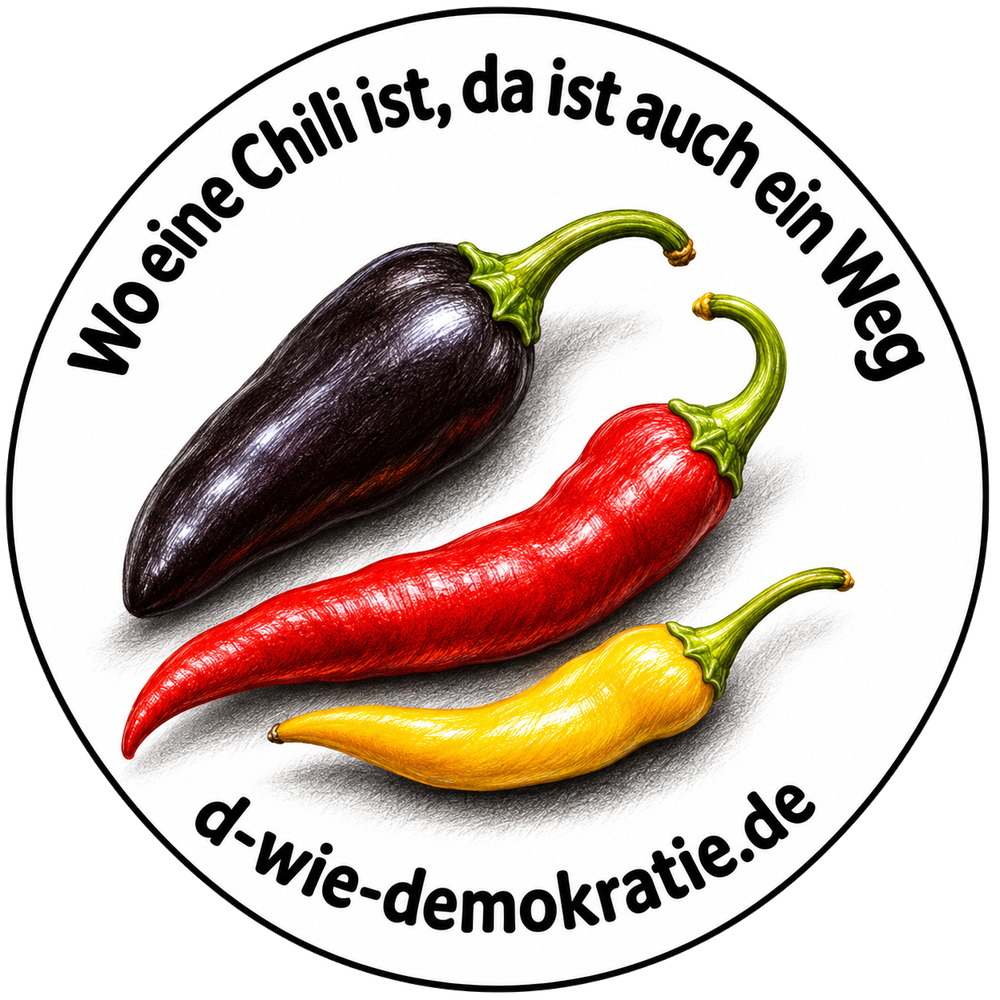
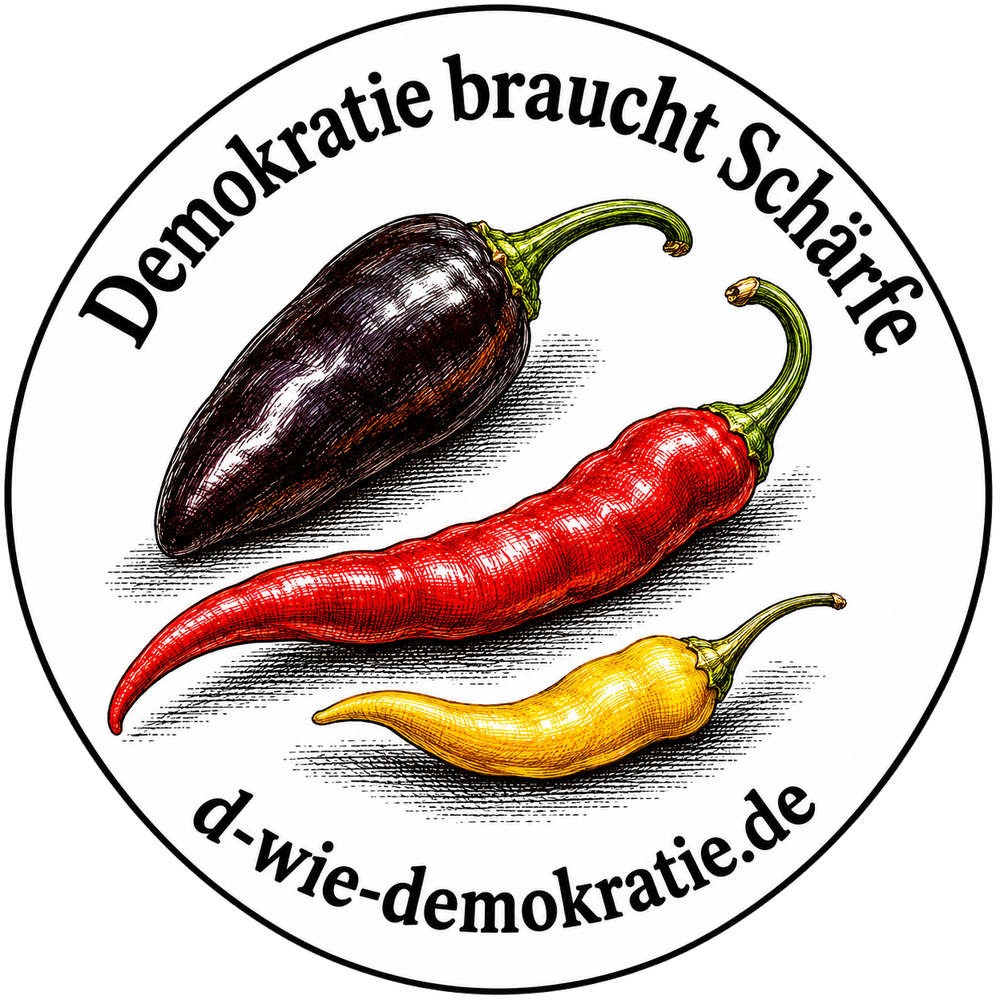
Motiv 6 jetzt „Demokratie braucht Schärfe“ (neues Bild)

diff --git a/src/data/motive.ts b/src/data/motive.ts
@@ -81,8 +81,8 @@ const liste = [
 	},
 	{
 		nr: 6,
-		name: 'Wo eine Chili ist, da ist auch ein Weg',
-		alt: 'Drei gezeichnete Chilischoten in Schwarz, Rot und Gelb liegen schräg und gestaffelt nebeneinander. Oben im Bogen „Wo eine Chili ist, da ist auch ein Weg“, unten d-wie-demokratie.de, in einem runden Abzeichen.',
+		name: 'Demokratie braucht Schärfe',
+		alt: 'Drei Chilischoten in Schwarz, Rot und Gelb liegen schräg und gestaffelt nebeneinander, gezeichnet im Stil eines alten Kupferstichs. Oben im Bogen „Demokratie braucht Schärfe“, unten d-wie-demokratie.de, in einem runden Abzeichen.',
 		bald: true,
 		vorschau: 'motiv-6-vorschau.png',
 	},

diff --git a/CLAUDE.md b/CLAUDE.md
@@ -24,7 +24,7 @@ Push to `main` triggers GitHub Actions (`.github/workflows/deploy.yml`), which b
 
 - `src/layouts/Layout.astro`: shared `<head>` (meta, Open Graph, Umami script), sticky header with black-red-gold stripe and tab navigation, footer links. Global CSS variables live here. Also holds the tab order (`reiter`) used for swiping between tabs on mobile and for the slide animation (native cross-document View Transitions, only on touch devices); a new tab must be added there as well as in the nav. The ☰ menu at the right of the header lists all pages (array `menue`, plus Impressum/Datenschutz in `menueKlein`); a new page without its own tab only goes there, and such a page gets its own red-underlined tab for the current page (`aktuell`): on phones it replaces „Motive“ (short name `handy`, e.g. „Einreichen“, „Geschichte“), from 700 px it sits after „Motive“ (name `kurz`, e.g. „Flaggengeschichte“). Tabs since 2026-11-18: logo (start), Fragen, Verbündete, Motive; „Mitmachen“ and „Unterstützen“ are only in the ☰ menu. These tabs are not part of `reiter`/swiping. Pages not in the menu (Statistik) mark the ☰ with the red bar instead. Header widths are tuned so everything fits from 320 px; re-measure after changing tab names.
 - `src/pages/index.astro`: landing page: photo slider at the top (crossfade every few seconds, dots below stop it; `bilder` array at the top, files in `src/assets/slider/`, new ones 1800 × 1200 px JPEG named `motiv-<nr>-<was>.jpg`; each photo links to `/motive/#motiv-<nr>` of the motif it shows; the photos are AI-generated, hence the visible "KI-generiert" note (Art. 50 AI Act, must stay visible, not behind a click) for entries with `foto: true`), then visible h1 „Wir zeigen Flagge“, the values with links to Art. 1–5 GG, a box styled as the flag (black-red-gold stripes, with the 1990 Reichstag photo as a grey watermark; its credit sits below the box) that rotates quotes (array `zitate` at the top: Klopp, Steinmeier …; each with an `id` such as `zitat-aigner`, so `/#zitat-aigner` shows that quote and stops the rotation; each with a button to the video or speech, only linked, not embedded; Klopp's video also linked in FAQ `#farben`), then a preview of all motifs (thumbnails of the first version, each linking to `/motive/#motiv-<nr>`; later only the newest). Old anchors `/#motiv-<nr>`, `/#motive`, `/#herunterladen` and `/#shop` are forwarded to `/motive/` by an inline script.
-- `src/pages/motive.astro`: tab „Motive“ (since 2026-11-18): intro (we want many motifs, from children, artists, designers …; link to „Motiv einreichen“), then two accordion questions (`<details>`, `#herunterladen` and `#shop` open them; download terms: print and share freely, don't alter; shop: Spreadshop by Spreadshirt (Leipzig) https://d-wie-demokratie.myspreadshop.de/, set up as Non-Profit-Shop (margin 0, customer pays Spreadshirt's base price), only organic-cotton textiles (mostly Stanley/Stella); Spreadshirt is the seller, 30-day return/exchange; linked from the question (button) and per motif or per version (`shop` in `liste` or in a `varianten` entry, `/all?mainDesignId=<id>`; switch `shopAktiv`), not embedded, so the site stays free of third-party cookies; biotshirt (YTWOO, Düsseldorf) was linked 2026-11-12 to 2026-11-18 and dropped because it accepts no returns (texts in commit 7918eb7); wording rule: never call products „GOTS-zertifiziert“, only say what the product pages state, e.g. „aus Bio-Baumwolle“) then the numbered motifs one under another (list `liste` in `src/data/motive.ts`, shared with the landing-page preview, each linkable via `/motive/#motiv-<nr>`), each with links to PNG, PDF and its shop search. Per motif: PNG `src/assets/motive/d-wie-demokratie-motiv-<nr>.png` (4000 px, transparent; thumbnail and download) and PDF `public/download/d-wie-demokratie-motiv-<nr>.pdf` (CMYK); a motif only shows once its PNG exists, a missing PDF or shop link just drops that link. Klaus keeps all motif files (PDF and PNG, same name) in `motive/` (gitignored working folder, a mirror of the published files) and exports there from Affinity; when he says so, Claude compares it with `src/assets/motive/` and `public/download/`, checks only new or changed files (size, transparency, sRGB, PDF/X-4, FOGRA39, exact CMYK values, no layers, no images) and copies them over. A motif with `bald: true` and `vorschau` (preview file in `src/assets/motive/bald/`) is shown with a gold „Kommt bald“ badge instead of download/shop links and is left out of the landing-page preview (since 2026-11-20: Motiv 3 „Keine Angst, Hasen!“, 4 „Alles wird Hut“, 5 „Entchen gut, alles gut“, 6 „Wo eine Chili ist, da ist auch ein Weg“, 7 „Dackel lieben Demokratie“, 8 „Oh Ei, oh Ei!“; preview = Klaus's AI draft with the white outside made transparent; when the print files exist, delete `bald`/`vorschau`). A motif can have several versions (`varianten` in `liste`, each with an `endung`; `versteckt: true` hides a version while its files stay, used since 2026-11-18 for both `-farbig` versions such as `-qr-weiss` or `-dunkel`, a button name and a short text): files `d-wie-demokratie-motiv-<nr><endung>.png` (in `src/assets/motive/`) and `.pdf` (in `public/download/`), same name, only the extension differs; buttons switch between them (without JS all are listed), each version is previewed on the fabric it is meant for: light heather grey by default, `-farbig` („Für mittlere Untergründe“) mid blue, `-dunkel` („Für dunkle Untergründe“, with white outline) anthracite (map `stoff`), or an explicit `stoff` per version (Motiv 1 „Für alle Untergründe“, white oval: mid blue-grey). PDF links carry a content hash (`?v=`) so a replaced PDF is never served from browser cache. `public/download/d-wie-demokratie-oval.png/.pdf` are kept for old links.
+- `src/pages/motive.astro`: tab „Motive“ (since 2026-11-18): intro (we want many motifs, from children, artists, designers …; link to „Motiv einreichen“), then two accordion questions (`<details>`, `#herunterladen` and `#shop` open them; download terms: print and share freely, don't alter; shop: Spreadshop by Spreadshirt (Leipzig) https://d-wie-demokratie.myspreadshop.de/, set up as Non-Profit-Shop (margin 0, customer pays Spreadshirt's base price), only organic-cotton textiles (mostly Stanley/Stella); Spreadshirt is the seller, 30-day return/exchange; linked from the question (button) and per motif or per version (`shop` in `liste` or in a `varianten` entry, `/all?mainDesignId=<id>`; switch `shopAktiv`), not embedded, so the site stays free of third-party cookies; biotshirt (YTWOO, Düsseldorf) was linked 2026-11-12 to 2026-11-18 and dropped because it accepts no returns (texts in commit 7918eb7); wording rule: never call products „GOTS-zertifiziert“, only say what the product pages state, e.g. „aus Bio-Baumwolle“) then the numbered motifs one under another (list `liste` in `src/data/motive.ts`, shared with the landing-page preview, each linkable via `/motive/#motiv-<nr>`), each with links to PNG, PDF and its shop search. Per motif: PNG `src/assets/motive/d-wie-demokratie-motiv-<nr>.png` (4000 px, transparent; thumbnail and download) and PDF `public/download/d-wie-demokratie-motiv-<nr>.pdf` (CMYK); a motif only shows once its PNG exists, a missing PDF or shop link just drops that link. Klaus keeps all motif files (PDF and PNG, same name) in `motive/` (gitignored working folder, a mirror of the published files) and exports there from Affinity; when he says so, Claude compares it with `src/assets/motive/` and `public/download/`, checks only new or changed files (size, transparency, sRGB, PDF/X-4, FOGRA39, exact CMYK values, no layers, no images) and copies them over. A motif with `bald: true` and `vorschau` (preview file in `src/assets/motive/bald/`) is shown with a gold „Kommt bald“ badge instead of download/shop links and is left out of the landing-page preview (since 2026-11-20: Motiv 3 „Keine Angst, Hasen!“, 4 „Alles wird Hut“, 5 „Entchen gut, alles gut“, 6 „Demokratie braucht Schärfe“, 7 „Dackel lieben Demokratie“, 8 „Oh Ei, oh Ei!“; preview = Klaus's AI draft with the white outside made transparent; when the print files exist, delete `bald`/`vorschau`). A motif can have several versions (`varianten` in `liste`, each with an `endung`; `versteckt: true` hides a version while its files stay, used since 2026-11-18 for both `-farbig` versions such as `-qr-weiss` or `-dunkel`, a button name and a short text): files `d-wie-demokratie-motiv-<nr><endung>.png` (in `src/assets/motive/`) and `.pdf` (in `public/download/`), same name, only the extension differs; buttons switch between them (without JS all are listed), each version is previewed on the fabric it is meant for: light heather grey by default, `-farbig` („Für mittlere Untergründe“) mid blue, `-dunkel` („Für dunkle Untergründe“, with white outline) anthracite (map `stoff`), or an explicit `stoff` per version (Motiv 1 „Für alle Untergründe“, white oval: mid blue-grey). PDF links carry a content hash (`?v=`) so a replaced PDF is never served from browser cache. `public/download/d-wie-demokratie-oval.png/.pdf` are kept for old links.
 - `src/pages/haeufige-fragen.astro`: FAQ page, including who started the initiative; the biography with portrait (`src/assets/klaus-p-wolf.jpg`) is collapsed until the name is clicked (open without JavaScript); `/haeufige-fragen/#wer` (and `#lebenslauf`) open the question and the biography.
 - `src/pages/verbuendete.astro`: tab „Verbündete“ („Wir sind Verbündete“: people, organisations, firms that share our values), array `verbuendete` at the top, grouped by `art`; „Werte und Ziele“ in the lead opens the values (shared component `src/components/Werte.astro`, also used on the landing page) and our three goals, `#werte` opens it; each entry optionally with `zusatz`, `url`, `zitat` and `logo` (files in `src/assets/verbuendete/`). Only add entries after checking them and with written consent (published under Art. 6 (1) a GDPR, see section 4 of `datenschutz.astro`). While the array is empty a „ganz neu“ note shows. Sign-up by e-mail, Umami `email-verbuendete`. „Unterstützen“ has no tab anymore, only the ☰ menu.
 - `src/pages/unterstuetzen.astro`: supporters page (who we are looking for); formerly `/unterstuetzer/`, which redirects here.
